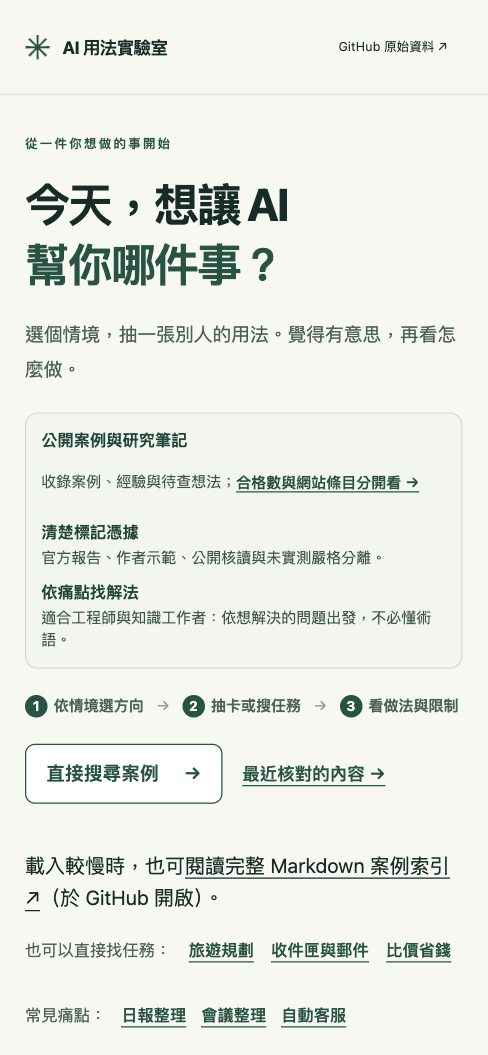
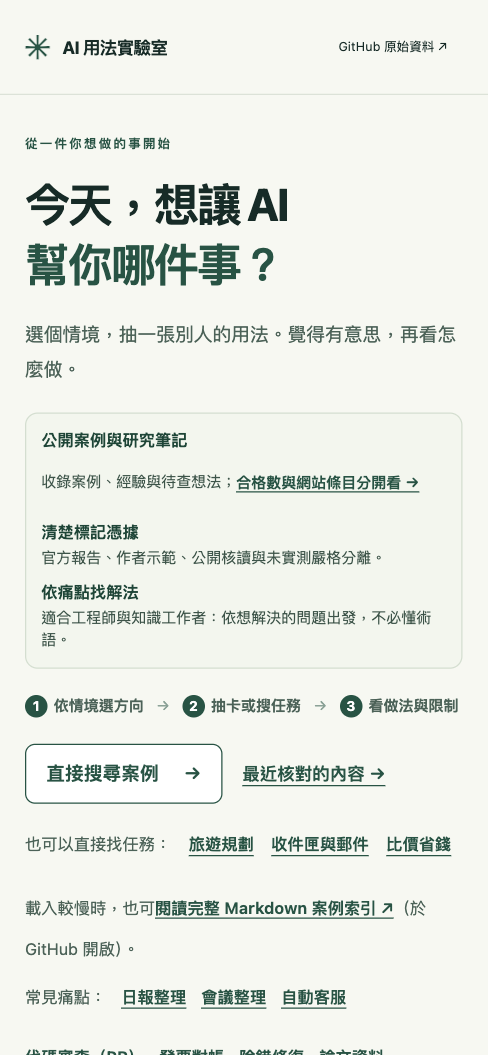
fix(home): retain narrow-screen task entry above fallback

Changed region(s): [[0.0307, 0.7886, 0.9221, 1.0], [0.0307, 0.9403, 0.1844, 1.0]]

diff --git a/index.html b/index.html
@@ -31,8 +31,8 @@
     <span class="guide-step"><span class="step-num">3</span> 看做法與限制</span>
   </div>
   <div class="hero-search-actions"><a class="hero-search-link" href="#explore" data-search-entry>直接搜尋案例 <span aria-hidden="true">→</span></a><a id="recent-entry" class="recent-entry" href="?sort=reviewed#explore">最近核對的內容 →</a></div>
-  <p class="hero-index-fallback">載入較慢時，也可<a href="https://github.com/RichardHan/ai-agent-use-cases/blob/main/INDEX.md">閱讀完整 Markdown 案例索引 ↗</a>（於 GitHub 開啟）。</p>
   <nav class="hero-task-examples" aria-label="從任務搜尋案例"><span>也可以直接找任務：</span><a data-task-entry href="?q=旅遊#explore">旅遊規劃</a><a data-task-entry href="?q=收件匣#explore">收件匣與郵件</a><a data-task-entry href="?q=比價#explore">比價省錢</a></nav>
+  <p class="hero-index-fallback">載入較慢時，也可<a href="https://github.com/RichardHan/ai-agent-use-cases/blob/main/INDEX.md">閱讀完整 Markdown 案例索引 ↗</a>（於 GitHub 開啟）。</p>
   <nav class="hero-problem-tags" aria-label="常見問題快捷探索"><span>常見痛點：</span><a class="problem-tag" href="?q=日報#explore">日報整理</a><a class="problem-tag" href="?q=會議#explore">會議整理</a><a class="problem-tag" href="?q=客服#explore">自動客服</a><a class="problem-tag" href="?q=代碼審查#explore">代碼審查（PR）</a><a class="problem-tag" href="?q=發票#explore">發票對帳</a><a class="problem-tag" href="?q=除錯#explore">除錯修復</a><a class="problem-tag" href="?q=論文#explore">論文資料</a></nav>
   <fieldset id="guide-options" class="guide-options" disabled>
     <legend class="sr-only">第一步：選擇你想探索的情境</legend>

diff --git a/docs/qa/2026-10-28-stalled-index.md b/docs/qa/2026-10-28-stalled-index.md
@@ -16,6 +16,6 @@
 
 預覽：`python3 scripts/preview.py /tmp/visitor-quality-20261028-preview/ai-agent-use-cases`，再用 `python3 -m http.server 8138 --directory /tmp/visitor-quality-20261028-preview` 開啟 `http://127.0.0.1:8138/ai-agent-use-cases/`。手機停滯截圖使用相同預覽 HTML、僅移除 app.js script 標籤以模擬腳本未執行；不是網路實測斷線。桌面修改前截圖由相同預覽移除新入口對照，非正式站截圖。
 
-基準 `node --test tests/*.test.cjs`：364 通過、0 失敗；`scripts/preview.py` 成功。修改後瀏覽器 390px：連結 y=682.8px、高 44.4px、聚焦輪廓 solid、水平溢出 0；正常搜尋「旅遊」33／459，生活組合 20／459，無效詞 0／459，UC-001 直鏈重載與關閉返回成功。正式 Pages 尚未發布，不將本機結果當成正式站驗收。
+基準及修改後 `node --test tests/*.test.cjs`：364 通過、0 失敗；`scripts/preview.py` 成功，457 來源逐 byte 一致。修改後瀏覽器 390px：連結 y=703.8px、高 44px、聚焦輪廓 solid、水平溢出 0；320×740px 原有任務入口仍在首屏，索引入口 y=733.9px、需稍向下捲動。正常搜尋「旅遊」33／459，生活組合 20／459，無效詞 0／459，UC-001 直鏈重載與關閉返回成功。PR #156 的 Home search entry QA 初次因索引插在任務入口前、擠出 320px 首屏而失敗；已將索引移至任務入口後，需重跑 Actions。正式 Pages 尚未發布，不將本機結果當成正式站驗收。
 
 下一輪：針對主分支 Reader source links／Print reading QA 的公開資產等待窗口（仍約 15 分鐘）與曾觀察到 22 分 29 秒的 Pages 發布時差統一處理。

diff --git a/SITE.md b/SITE.md
@@ -1,6 +1,6 @@
 ## 2026-10-28 首頁載入停滯的靜態案例入口
 
-app.js 未執行時原本只顯示準備中，完整索引藏在 noscript 或失敗區塊。首頁搜尋入口旁新增不依賴腳本的 GitHub Markdown 索引連結；390px 停滯模擬首屏 y=682.8px、44.4px 高，正常搜尋、篩選、空結果、UC-001 直鏈與返回不變。GitHub main 內容可能較本站新；正式發布待核對。[兩案、前後截圖及驗收](docs/qa/2026-10-28-stalled-index.md)。下一輪優先處理 Reader source links／Print reading QA 仍約 15 分鐘的發布等待窗口。
+app.js 未執行時原本只顯示準備中，完整索引藏在 noscript 或失敗區塊。首頁任務入口後新增不依賴腳本的 GitHub Markdown 索引連結；390px 停滯模擬首屏 y=703.8px、44px 高，320px 保留原任務首屏而索引需稍捲動。正常搜尋、篩選、空結果、UC-001 直鏈與返回不變。GitHub main 內容可能較本站新；正式發布待核對。[兩案、前後截圖及驗收](docs/qa/2026-10-28-stalled-index.md)。下一輪優先處理 Reader source links／Print reading QA 仍約 15 分鐘的發布等待窗口。
 
 ## 2026-10-28 共享案例公開站 QA 等待同版發布
 
